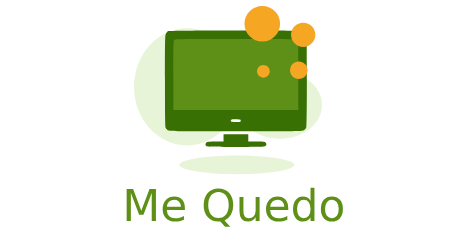
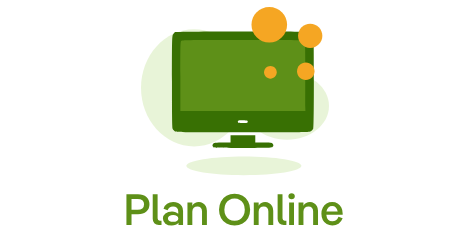
Corregido nuevo Plan Me Quedo

diff --git a/index.html b/index.html
@@ -71,6 +71,10 @@
             <img class="image" src="./plan_online.png" alt="Imagen 4">
             <button class="copy-button" onclick="copyImageURL(this.previousElementSibling.src)">Copiar URL</button>
         </div>
+        <div class="image-container">
+            <img class="image" src="./plan_me_quedo.png" alt="Imagen 4">
+            <button class="copy-button" onclick="copyImageURL(this.previousElementSibling.src)">Copiar URL</button>
+        </div>
     </div>
     <div class="image-grid">
         <div class="image-container">
